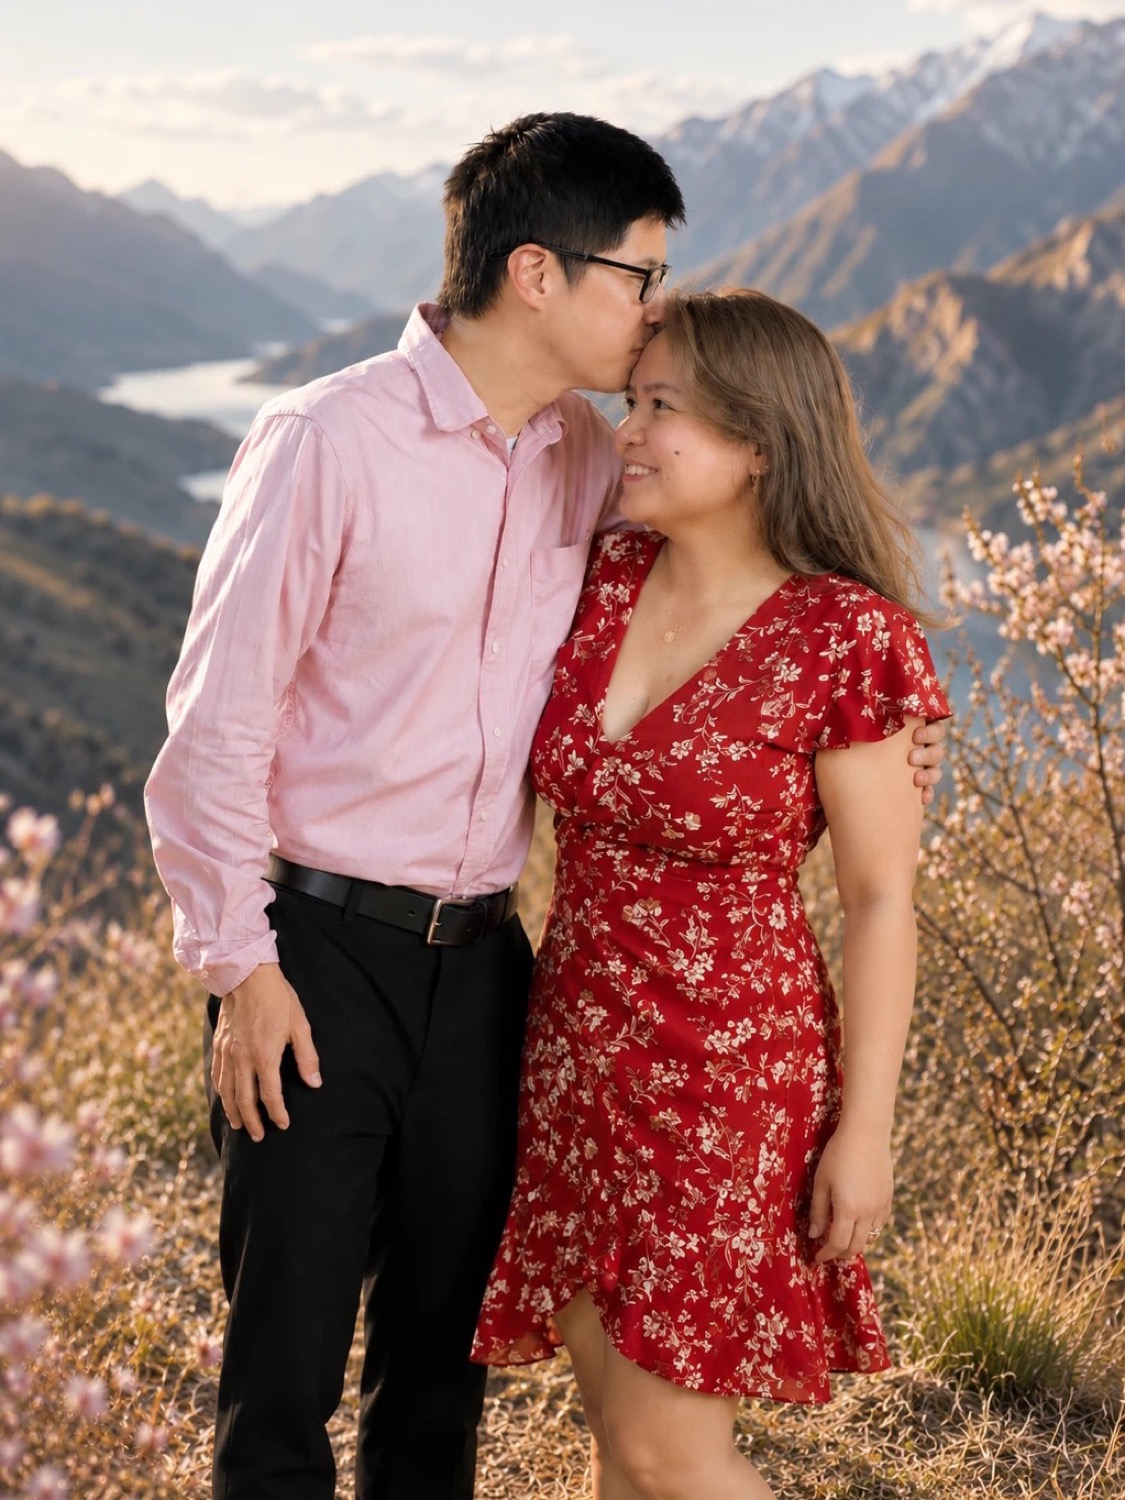
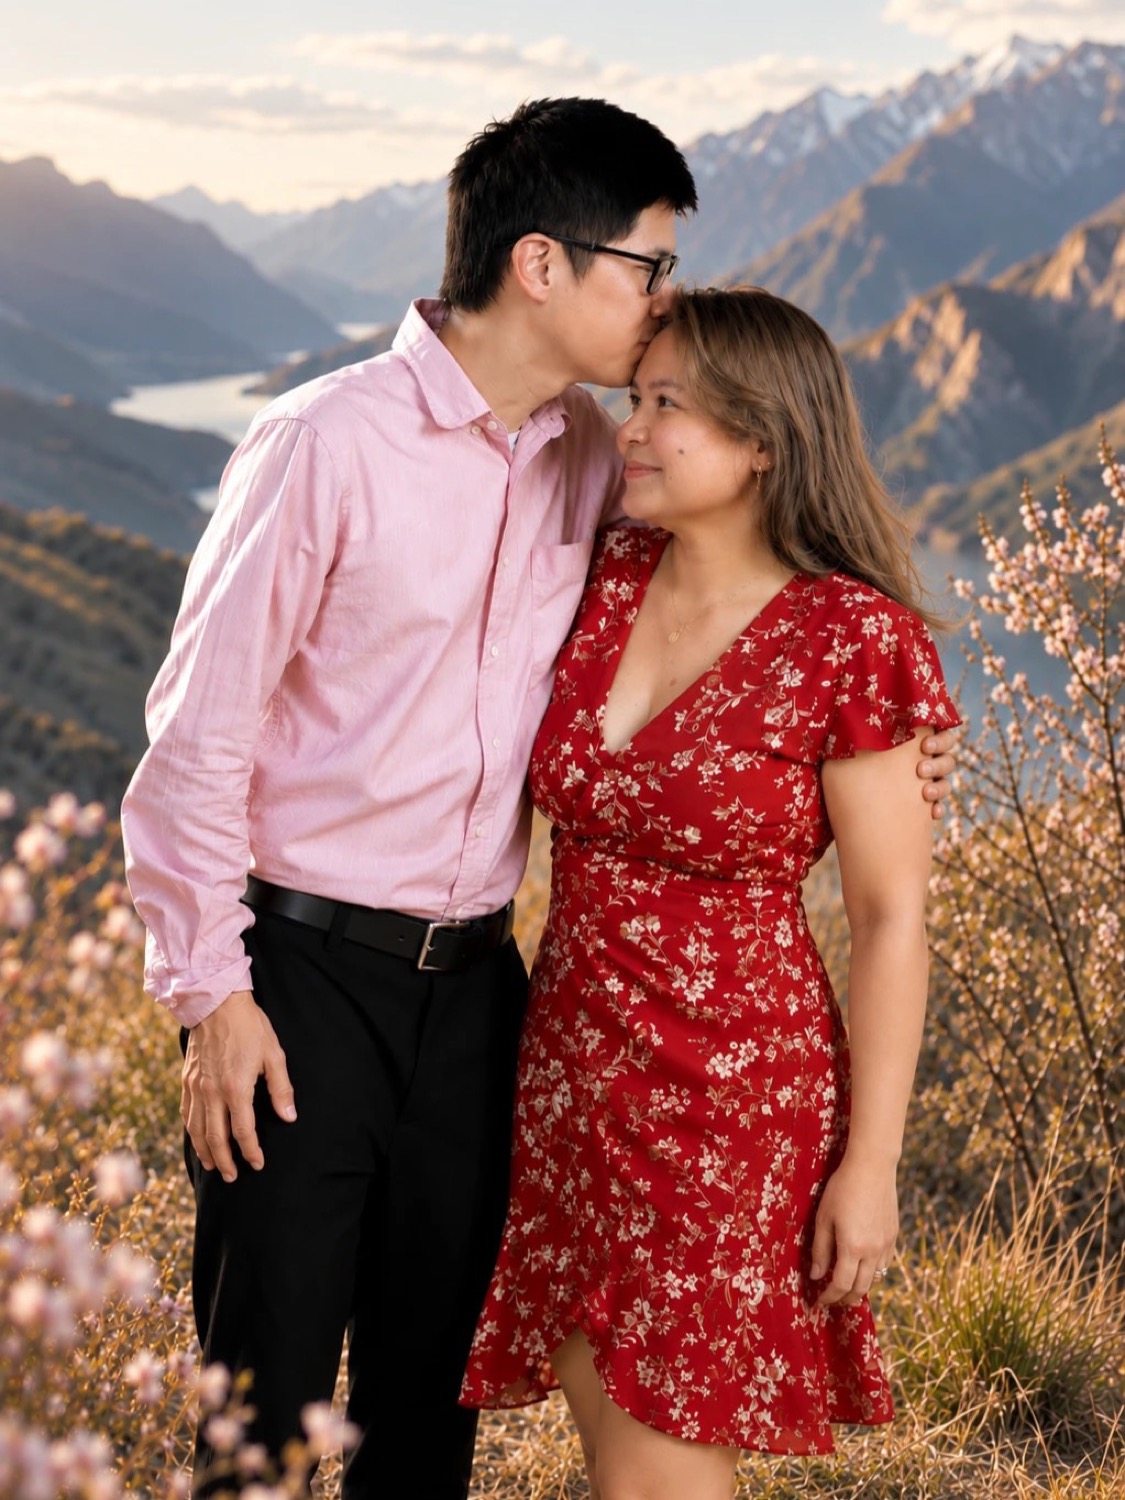
The warm composite on the invitation
The version Joy wanted - golden light, flare off the ridge, blossom soft
in both bottom corners. The two earlier uploads arrived byte-identical
to each other, so this is the first time the warm frame actually reached
the repo.

Same treatment as before: 3:4, trimmed from the bottom so the mountains
and the lake stay above them, and card-2 regenerated from the same frame.

diff --git a/index.html b/index.html
@@ -2131,7 +2131,7 @@ details[open] > .hire-steps{display:flex; flex-direction:column; gap:11px; paddi
   }
 })();
 
-const BUILD = "202610070750";
+const BUILD = "202610070755";
 document.documentElement.dataset.build = BUILD;
 (async () => {
   try {
